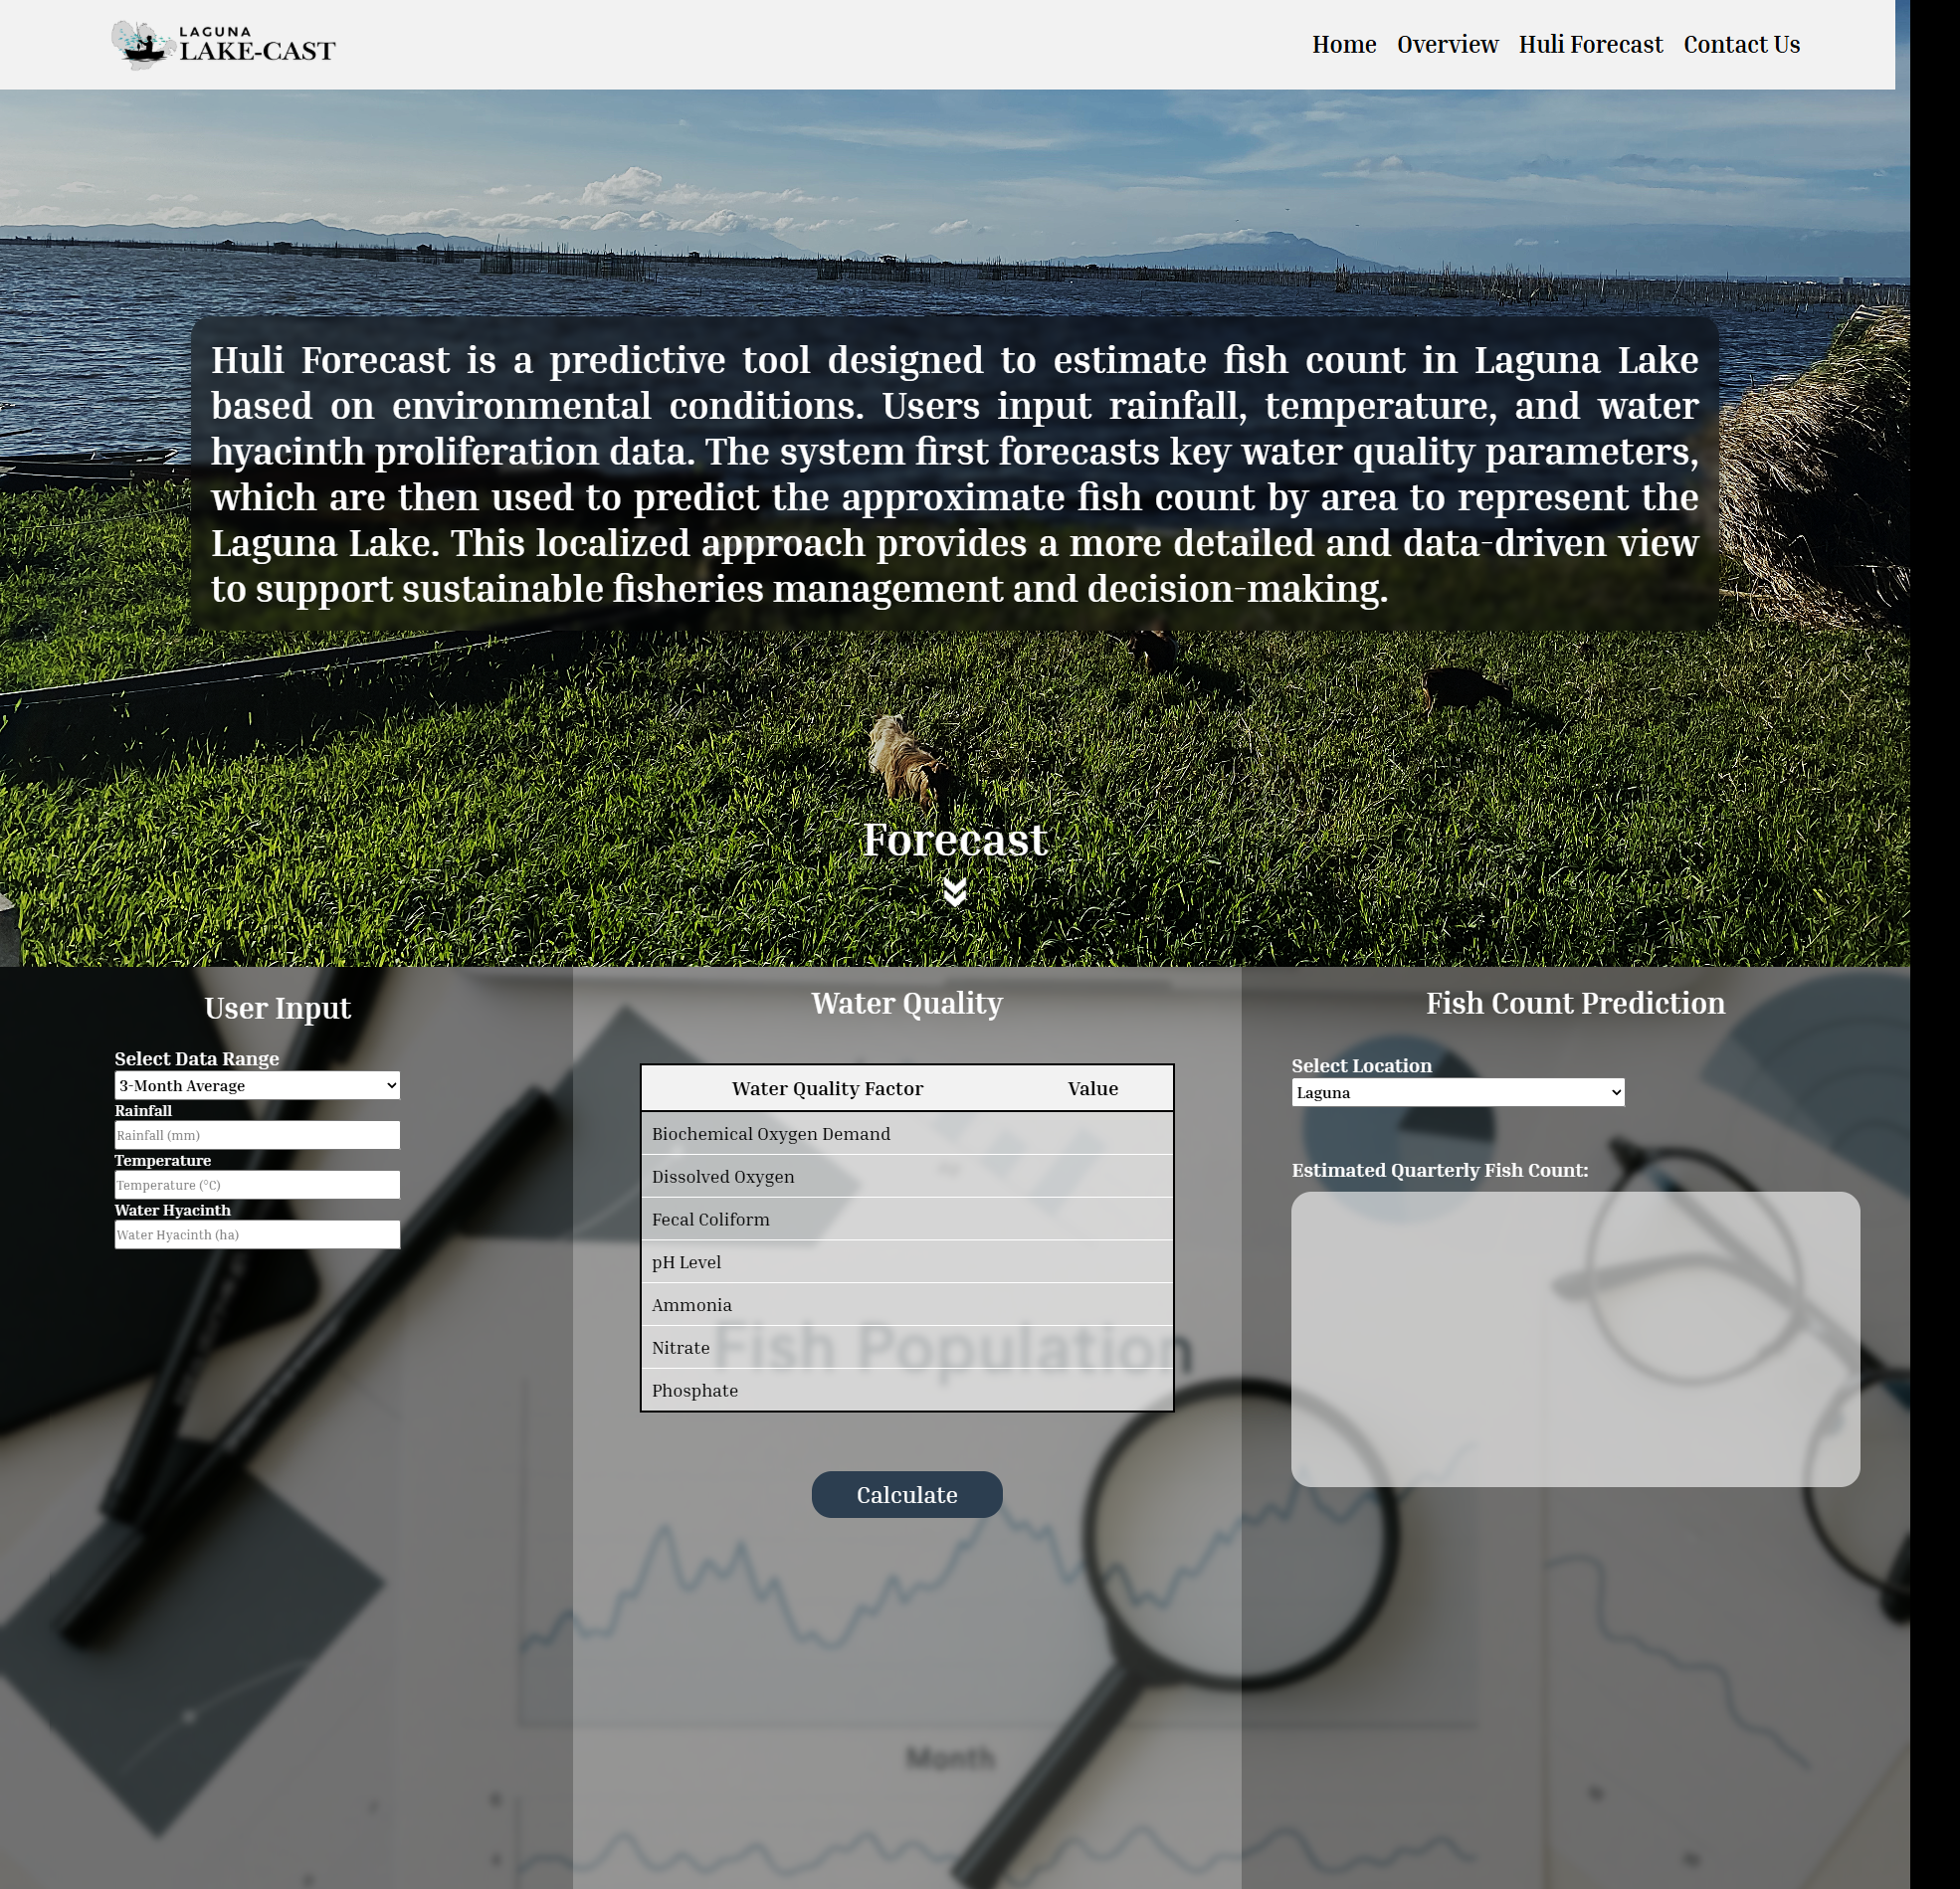
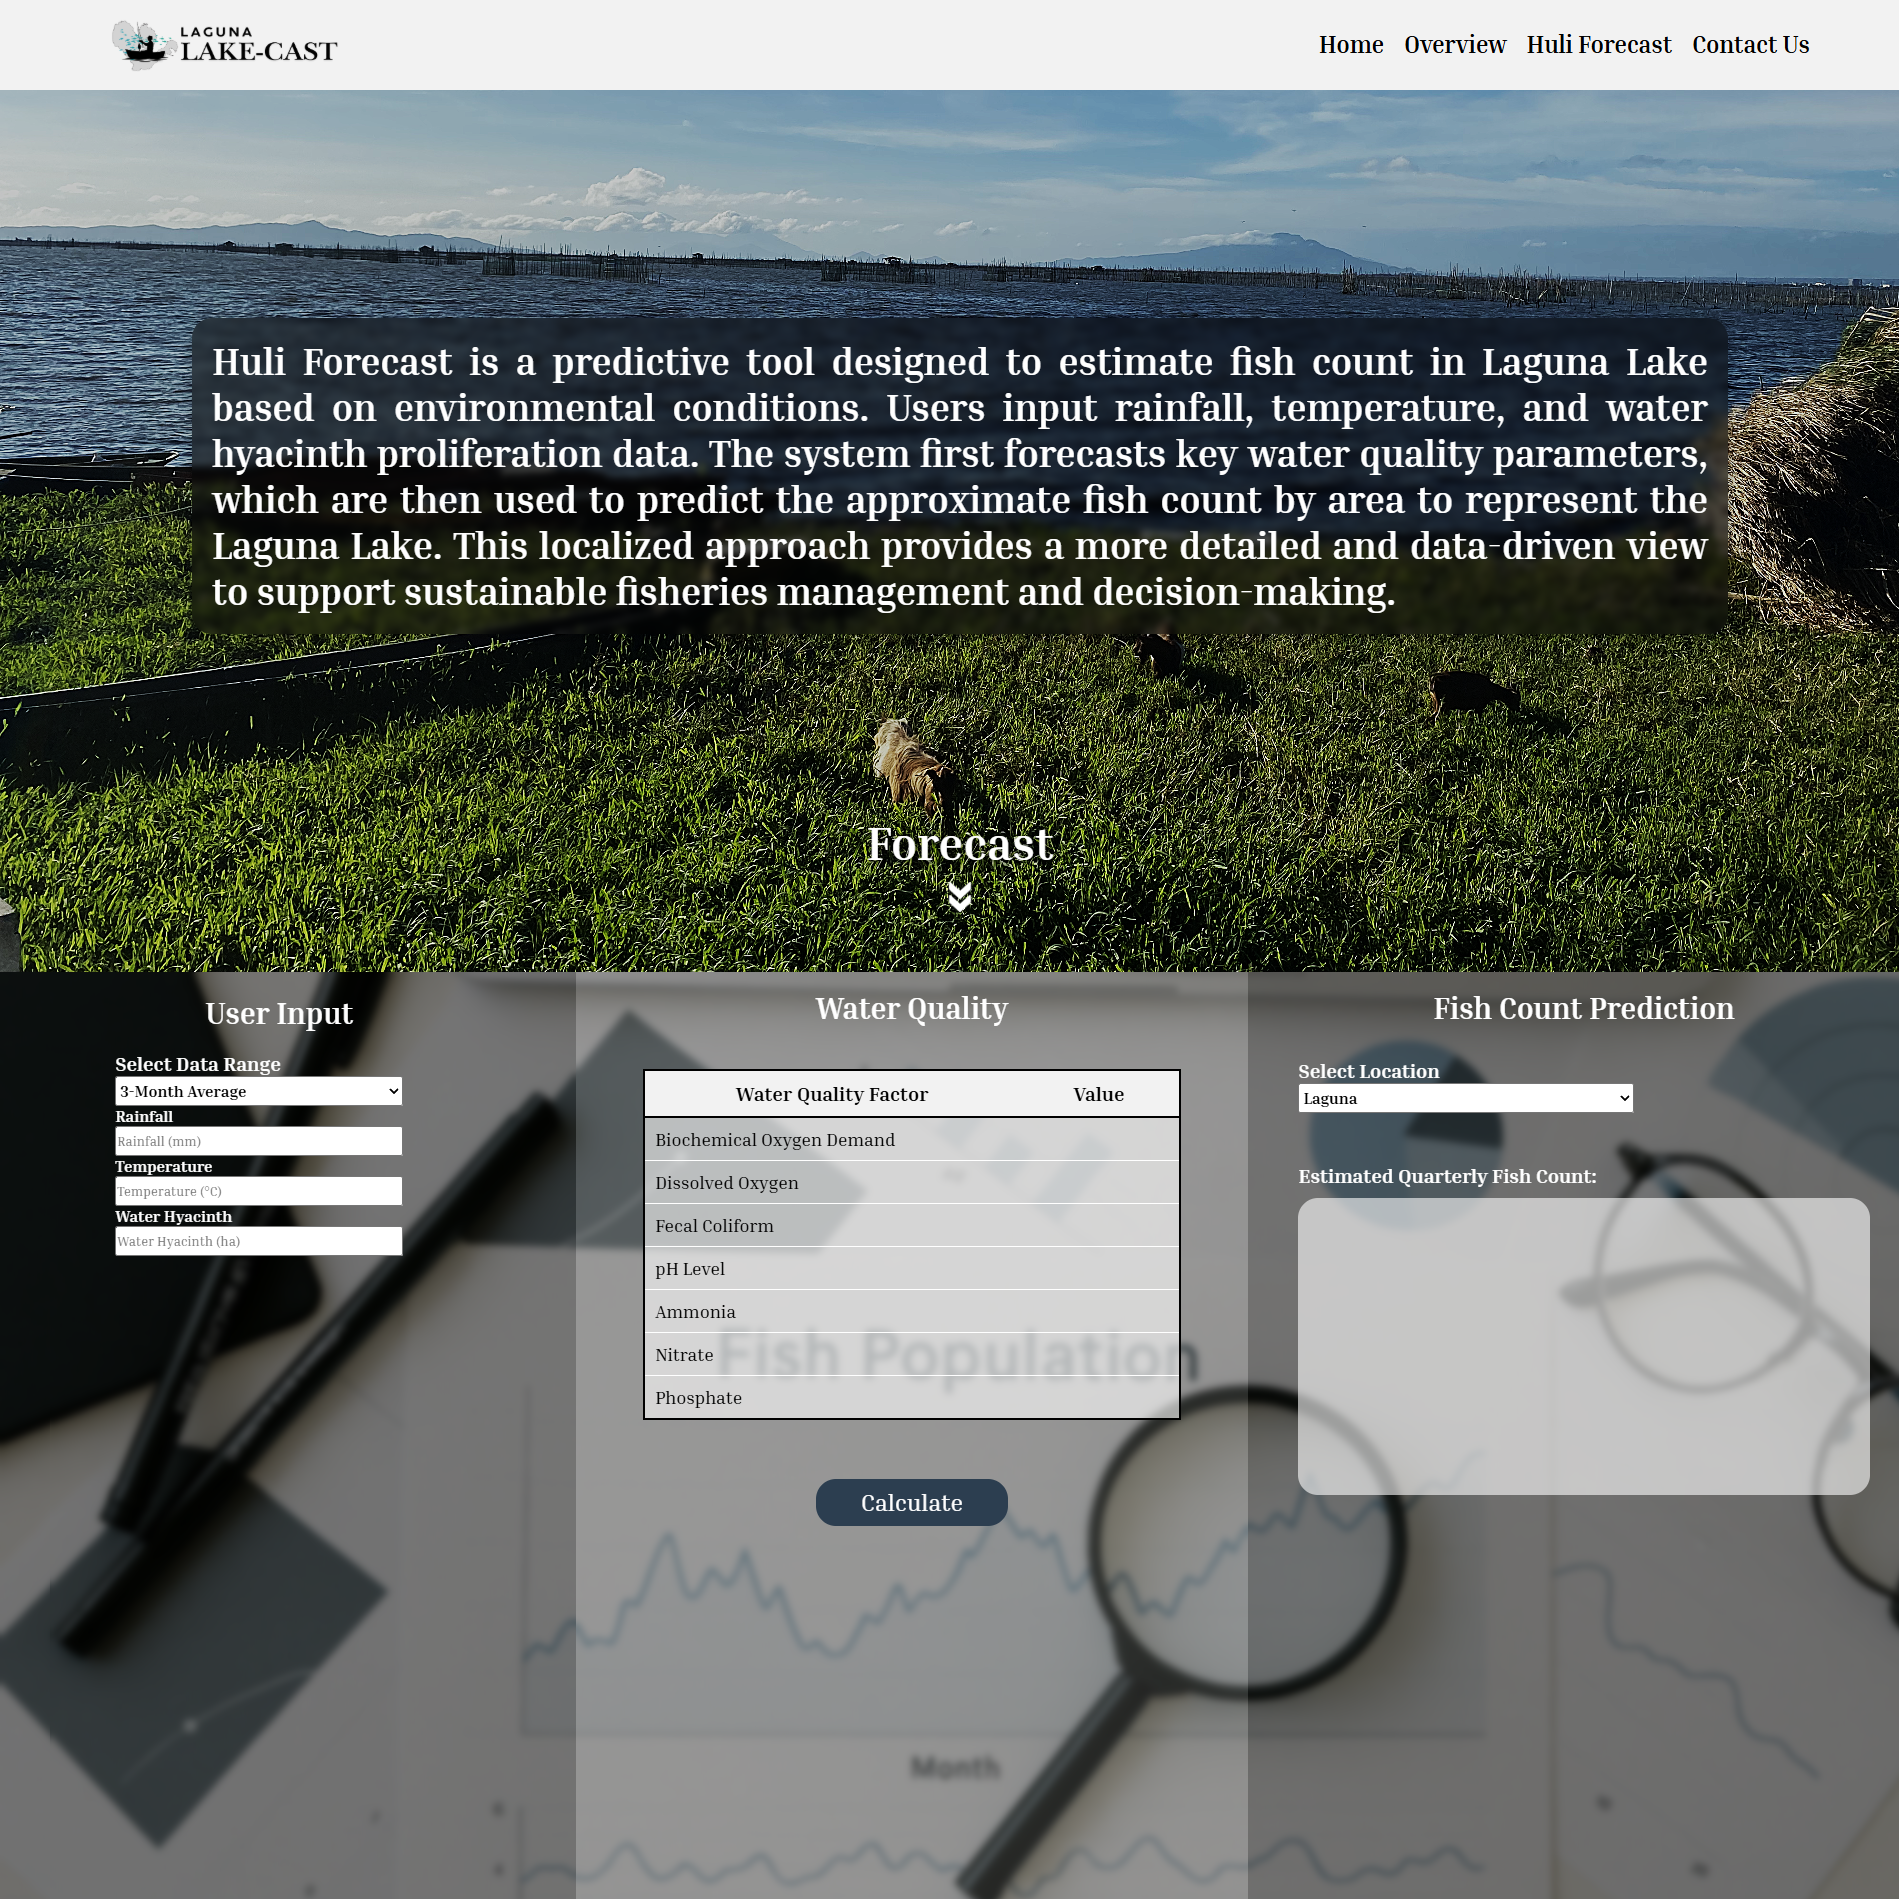
Multiple Edits to projects

diff --git a/src/app/(main)/compositions/ProjectsSection/ProjectData.ts b/src/app/(main)/compositions/ProjectsSection/ProjectData.ts
@@ -14,10 +14,23 @@ export interface Project {
 }
 export const PROJECTS: Project[] = [
   {
+    id: "compliance",
+    title: "AdU CMS",
+    tag: "Process Automation",
+    volume: "An Automated Compliance Monitoring Tool  ",
+    description:
+      "The Compliance Monitoring System is a Python-based automation tool that tracks document submission deadlines and sends email reminders to responsible offices and departments. It helps ensure timely compliance with reporting and document requirements for external regulatory bodies.",
+    tech: ["Python", "SMTP", "Git Actions", "openpyxl"],
+    cardImg: "./images/compositions/cmslogo.png",
+    isFeatured: true,
+    modalImg: "./images/compositions/cms.png",
+    link: "https://fix-flow-beta.vercel.app/",
+  },
+  {
     id: "fixflow",
     title: "Fix Flow",
-    tag: "Featured",
-    volume: "Vol. 1",
+    tag: "IE Capstone Prototype",
+    volume: "An Equipment Operations Management System",
     description:
       "Fix Flow is a web-based machine maintenance platform that unifies criticality assessment, PF Curve scheduling, KPI tracking, and spare parts management into a single, centralized dashboard. Built for CNC operations, it empowers maintenance teams to make smarter, data-driven decisions that reduce downtime and extend equipment life.",
     tech: ["Next.js", "TypeScript", "CSS"],
@@ -27,63 +40,43 @@ export const PROJECTS: Project[] = [
     link: "https://fix-flow-beta.vercel.app/",
   },
   {
-    id: "analog-sound",
-    title: "Analog Sound Co.",
-    tag: "E-Commerce",
-    volume: "EP. 2",
+    id: "studyspot",
+    title: "Study Spot",
+    tag: "IE Capstone Prototype",
+    volume: "A Café & Student Lounge Finder",
     description:
-      "Digital storefront for bespoke audio equipment, bringing physical textures and tactile warmth to a web shopping experience.",
+      "Study Spot is a web-based platform that helps students discover nearby cafés and lounges suited for studying, meetings, or relaxation, with easy filtering by amenities and location. It also empowers café owners to manage seat availability and view reservation requests in real time, all within a seamless, locally-simulated prototype experience.",
     tech: ["Next.js", "WebGL", "Sanity"],
-    cardImg:
-      "https://lh3.googleusercontent.com/aida-public/AB6AXuCq58hhoOIW70AEo90zPjJ3P6j0xfqbxNbXI25RNfnRpCshVSnryh9d9eZbk4U9E1gTn46mzvvDy4LGFXBM_NQ3TRE70Rn2IvAfZwjndd6lisL2tBFIysbc27hL8Y3JmsaDmcItOAWjZ6MTgjuUsI45dmMGny5HwN3qO4XSuB4l_m6S0F0gHtmPr3TlRdJMjRZl9a30wulRP5omfvE49WwM_rl3Swz09g2RECuitBC8DeTx5GSG8N3A2QP4oMnsE_CewowhE0BEPtSp",
+    cardImg: "./images/compositions/studyspotlogo.png",
     isFeatured: true,
-    link: "",
+    modalImg: "./images/compositions/studyspot.png",
+    link: "https://ange-09.github.io/student-cafe/",
   },
   {
-    id: "brutal-form",
-    title: "Brutal Form",
-    tag: "Editorial",
-    volume: "Vol. 3",
+    id: "lakecast",
+    title: "Laguna Lake-Cast",
+    tag: "IE Capstone Prototype",
+    volume: "A Fish Forecasting Tool for Laguna Lake",
     description:
-      "A digital magazine exploring brutalist architecture through strict grid layouts and uncompromising typography.",
+      "Huli Forecast is a predictive tool that estimates fish count in Laguna Lake using environmental data such as rainfall, temperature, and water hyacinth proliferation. It first forecasts key water quality parameters and then predicts the approximate fish count by area, providing a detailed, data-driven basis for sustainable fisheries management and decision-making.",
     tech: ["Nuxt", "GSAP", "Contentful"],
-    cardImg:
-      "https://lh3.googleusercontent.com/aida-public/AB6AXuAtkepMNQZdTSGa5DMWoyrS-osOq97IRDkLpt1UOuu3IXI1yN5JET66RcdNh-Ue5W6Qo6j76sttviXvvYKH9-J9JiR5ss5yxFkKgaokKRW7cYPNXhTCBxErNrhOzjYsCkQbKFNdFaC_DszGwLGlAv81di7QxIKKzmLdT5fCd_D9Im4mXdQ8FEmkm_KHdg_STXC_bEZ3J8T6ftJpitIi8xiauXo_iYxVIi0ghdAlaJHXPnerMZ9vVjcRL1kSka76Z8jH0KWhOMLrNzCB",
-    isFeatured: true,
-  },
-  {
-    id: "prism",
-    title: "Prism Analytics",
-    tag: "SaaS App",
-    volume: "Vol. 4",
-    description:
-      "Data visualisation dashboard prioritising clarity and low visual noise for demanding analytics workflows.",
-    tech: ["Vue 3", "D3.js", "TailwindCSS"],
-    cardImg:
-      "https://lh3.googleusercontent.com/aida-public/AB6AXuDSHsroJxIkElal8vnQYS_16z2B2IxItCaNu27R0tmBYjYy_GTuP1v9gXPm1nRQK_rKXa92fzAnTisMbJA7J9f69RzkcxChE9XfFwnnRvfAdaGJAbUFL9oeUytoQBPbPyvuv6-Sb1uLHYddaqN3uYErVI1tADQdkOTMzGpM0FriwSh_cRUyHhtl9fEO3pIztur2UZy5D9sBf-6CyxBvEbw7021CzraEbrdZr_0ulcF8XX2hzp7n_-DsucN0mBlqIfwe_fuJLiUbTfWH",
-  },
-  {
-    id: "inter-type",
-    title: "Inter Type Specimen",
-    tag: "Typography",
-    volume: "EP. 5",
-    description:
-      "Interactive exploration of the Inter typeface, highlighting its extraordinary legibility across scales and contexts.",
-    tech: ["HTML/CSS", "Web Fonts API"],
-    cardImg:
-      "https://lh3.googleusercontent.com/aida-public/AB6AXuBR_Oeo6qnSMk6qnnC4ztCUP312VTxDUmumohuDu91VfBIPM7RlhzXgIuz5Iksc2ddbn5UMcwrj4bkjbyFCAV5o_3fxYobTpHPZfsYNxhf1h9U1k8n2IGGvIpX8gk0jEEq9nH9lvzSiMtVy5NVR3AI4ehCBwBIiawC1_P7Km-rubuPpBrdFvbfn_pAw2N0mnh-lWISmiZtxBvnKPwOgWB3OoH6nNZ7eoigB0hfDxr70-vVlqL64SQHekXfJG4Lot0mVckpFM7Or4lIT",
+    cardImg: "./images/compositions/lakecastlogo.png",
+    isFeatured: false,
+    modalImg: "./images/compositions/lakecast.png",
+    link: "https://ange-09.github.io/FISH-COUNT-CALCULATOR-A/index.html",
   },
 
-  // Initials-fallback example (no cardImg):
   {
-    id: "flux-portal",
-    title: "Flux Portal",
-    tag: "Mobile",
-    volume: "Vol. 6",
+    id: "portfolio",
+    title: "Personal Portfolio",
+    tag: "Portfolio Website",
+    volume: "A Fish Forecasting Tool for Laguna Lake",
     description:
-      "Cross-platform design system and component library built for high-density mobile interfaces.",
-    tech: ["React Native", "Expo", "Figma Tokens"],
-    initials: "FP",
-    coverGradient: "linear-gradient(135deg, #1a1040, #3a1a60)",
+      "This is Ryan's personal portfolio site, featuring a dark Midnight Jazz theme. It showcases his work as a systems developer, featuring his projects, his professional experience, and a way to get in touch.",
+    tech: ["Nuxt", "GSAP", "Contentful"],
+    cardImg: "./images/compositions/portfoliologo.png",
+    isFeatured: false,
+    modalImg: "./images/compositions/portfolio.png",
+    link: "https://ange-09.github.io/FISH-COUNT-CALCULATOR-A/index.html",
   },
 ];

diff --git a/src/app/(main)/compositions/ProjectCard/ProjectModal/ProjectModal.module.css b/src/app/(main)/compositions/ProjectCard/ProjectModal/ProjectModal.module.css
@@ -238,6 +238,7 @@
   line-height: 1.75;
   color: var(--text-muted, #6a8faa);
   margin: 0 0 28px;
+  text-align: justify;
 }
 
 /* ── Tech pills ── */
@@ -340,34 +341,24 @@
 .preview {
   flex: 1;
   position: relative;
-  overflow: hidden;
+  overflow-y: auto;
   background: #04090f;
   min-height: 300px;
 }
 
 .previewImg {
-  position: absolute;
-  inset: 0;
-  width: 100%;
-  height: 100%;
-  object-fit: cover;
+  position: relative;
   display: block;
+  width: 100%;
+  height: auto;
 }
 
 .previewOverlay {
   position: absolute;
-  inset: 0;
-  background:
-    radial-gradient(
-      ellipse 80% 60% at 50% 40%,
-      rgba(200, 168, 74, 0.05) 0%,
-      transparent 70%
-    ),
-    linear-gradient(
-      to bottom,
-      rgba(7, 16, 31, 0.1) 0%,
-      rgba(7, 16, 31, 0.5) 100%
-    );
+  top: 0;
+  left: 0;
+  right: 0;
+  height: 100%;
   pointer-events: none;
 }
 

diff --git a/src/app/(main)/compositions/ProjectCard/ProjectCard.module.css b/src/app/(main)/compositions/ProjectCard/ProjectCard.module.css
@@ -4,15 +4,6 @@
 
 /* ── Keyframes ─────────────────────────────────────────────────────────────── */
 
-@keyframes vinylSpin {
-  from {
-    transform: rotate(0deg);
-  }
-  to {
-    transform: rotate(360deg);
-  }
-}
-
 @keyframes sheenSwipe {
   from {
     transform: translateX(-120%) skewX(-20deg);
@@ -125,7 +116,7 @@
   height: 100%;
   object-fit: cover;
   opacity: 0.75;
-  filter: grayscale(1);
+  filter: grayscale(0.4);
   transition:
     opacity 0.5s ease,
     filter 0.5s ease;
@@ -195,6 +186,7 @@
   background: rgba(10, 24, 40, 0.82);
   backdrop-filter: blur(6px);
   border: 0.5px solid var(--border-subtle, #1a3050);
+  border-color: rgba(200, 168, 74, 0.65);
   border-radius: 2px;
   padding: 4px 10px;
   transition: border-color 0.3s ease;
@@ -214,10 +206,6 @@
   letter-spacing: 0.16em;
   text-transform: uppercase;
   color: var(--accent-gold, #c8a84a);
-}
-
-.badge:not(.badgeFeatured) .badgeText {
-  color: var(--text-muted, #5a7a9a);
 }
 
 /* ── Cover bottom meta ─────────────────────────────────────────────────────── */

diff --git a/src/app/(main)/compositions/ProjectCard/ProjectModal/ProjectModal.tsx b/src/app/(main)/compositions/ProjectCard/ProjectModal/ProjectModal.tsx
@@ -73,8 +73,6 @@ export default function ProjectModal({ project, onClose }: ProjectModalProps) {
 
           <h2 className={styles.title}>{project.title}</h2>
 
-          <p className={styles.volume}>{project.volume}</p>
-
           <p className={styles.desc}>{project.description}</p>
 
           <div className={styles.techBlock}>